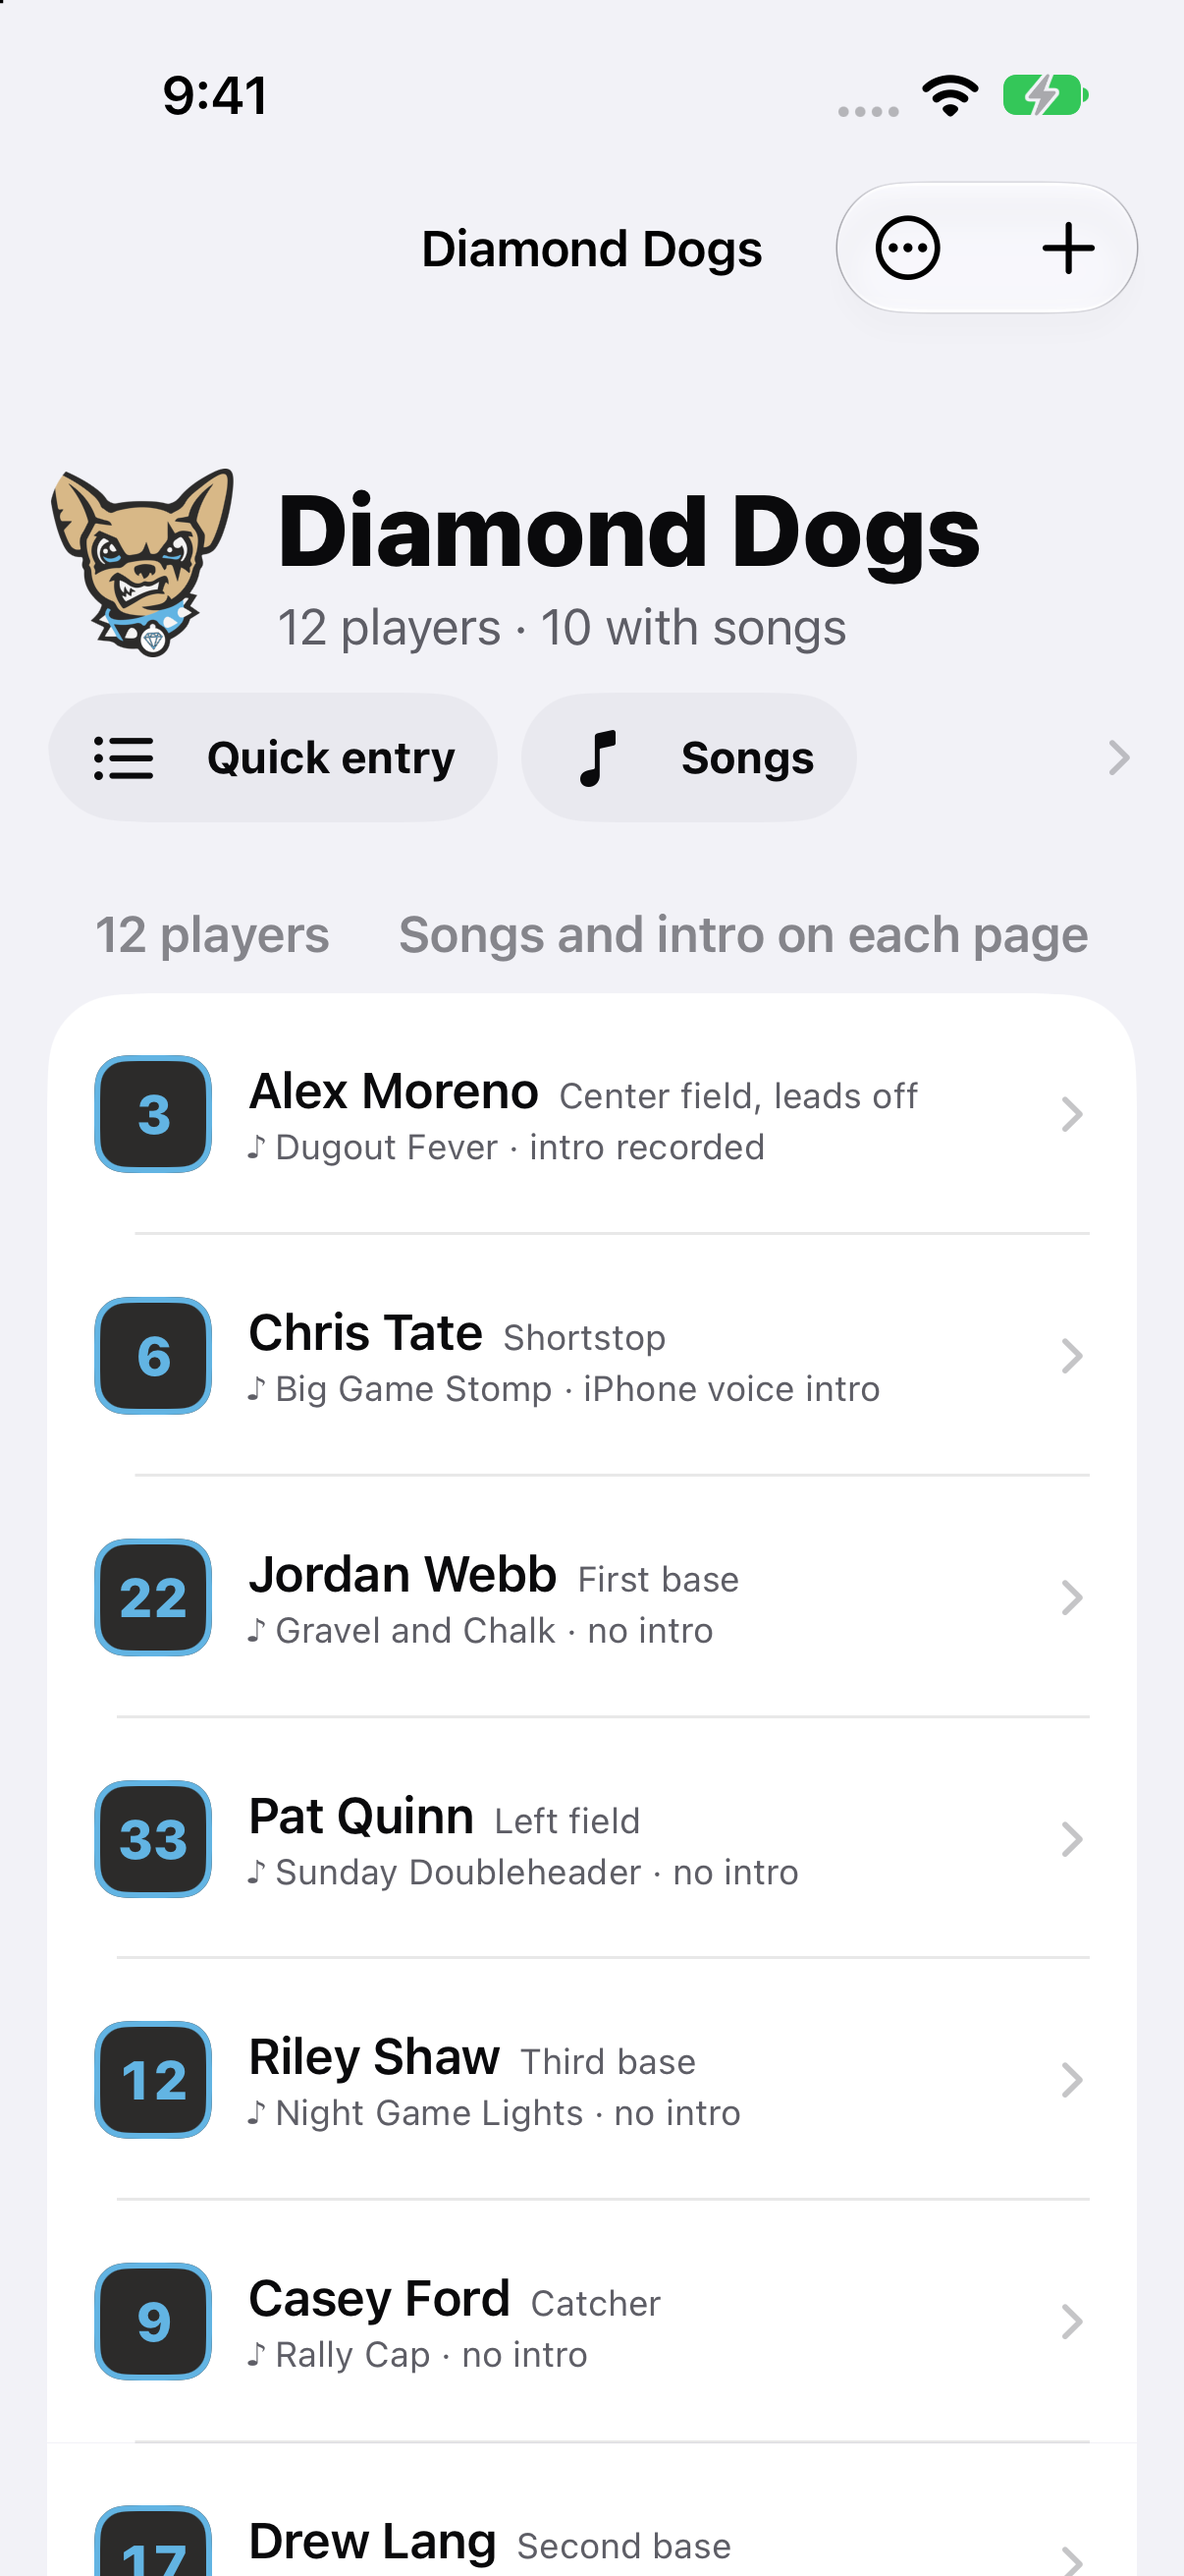
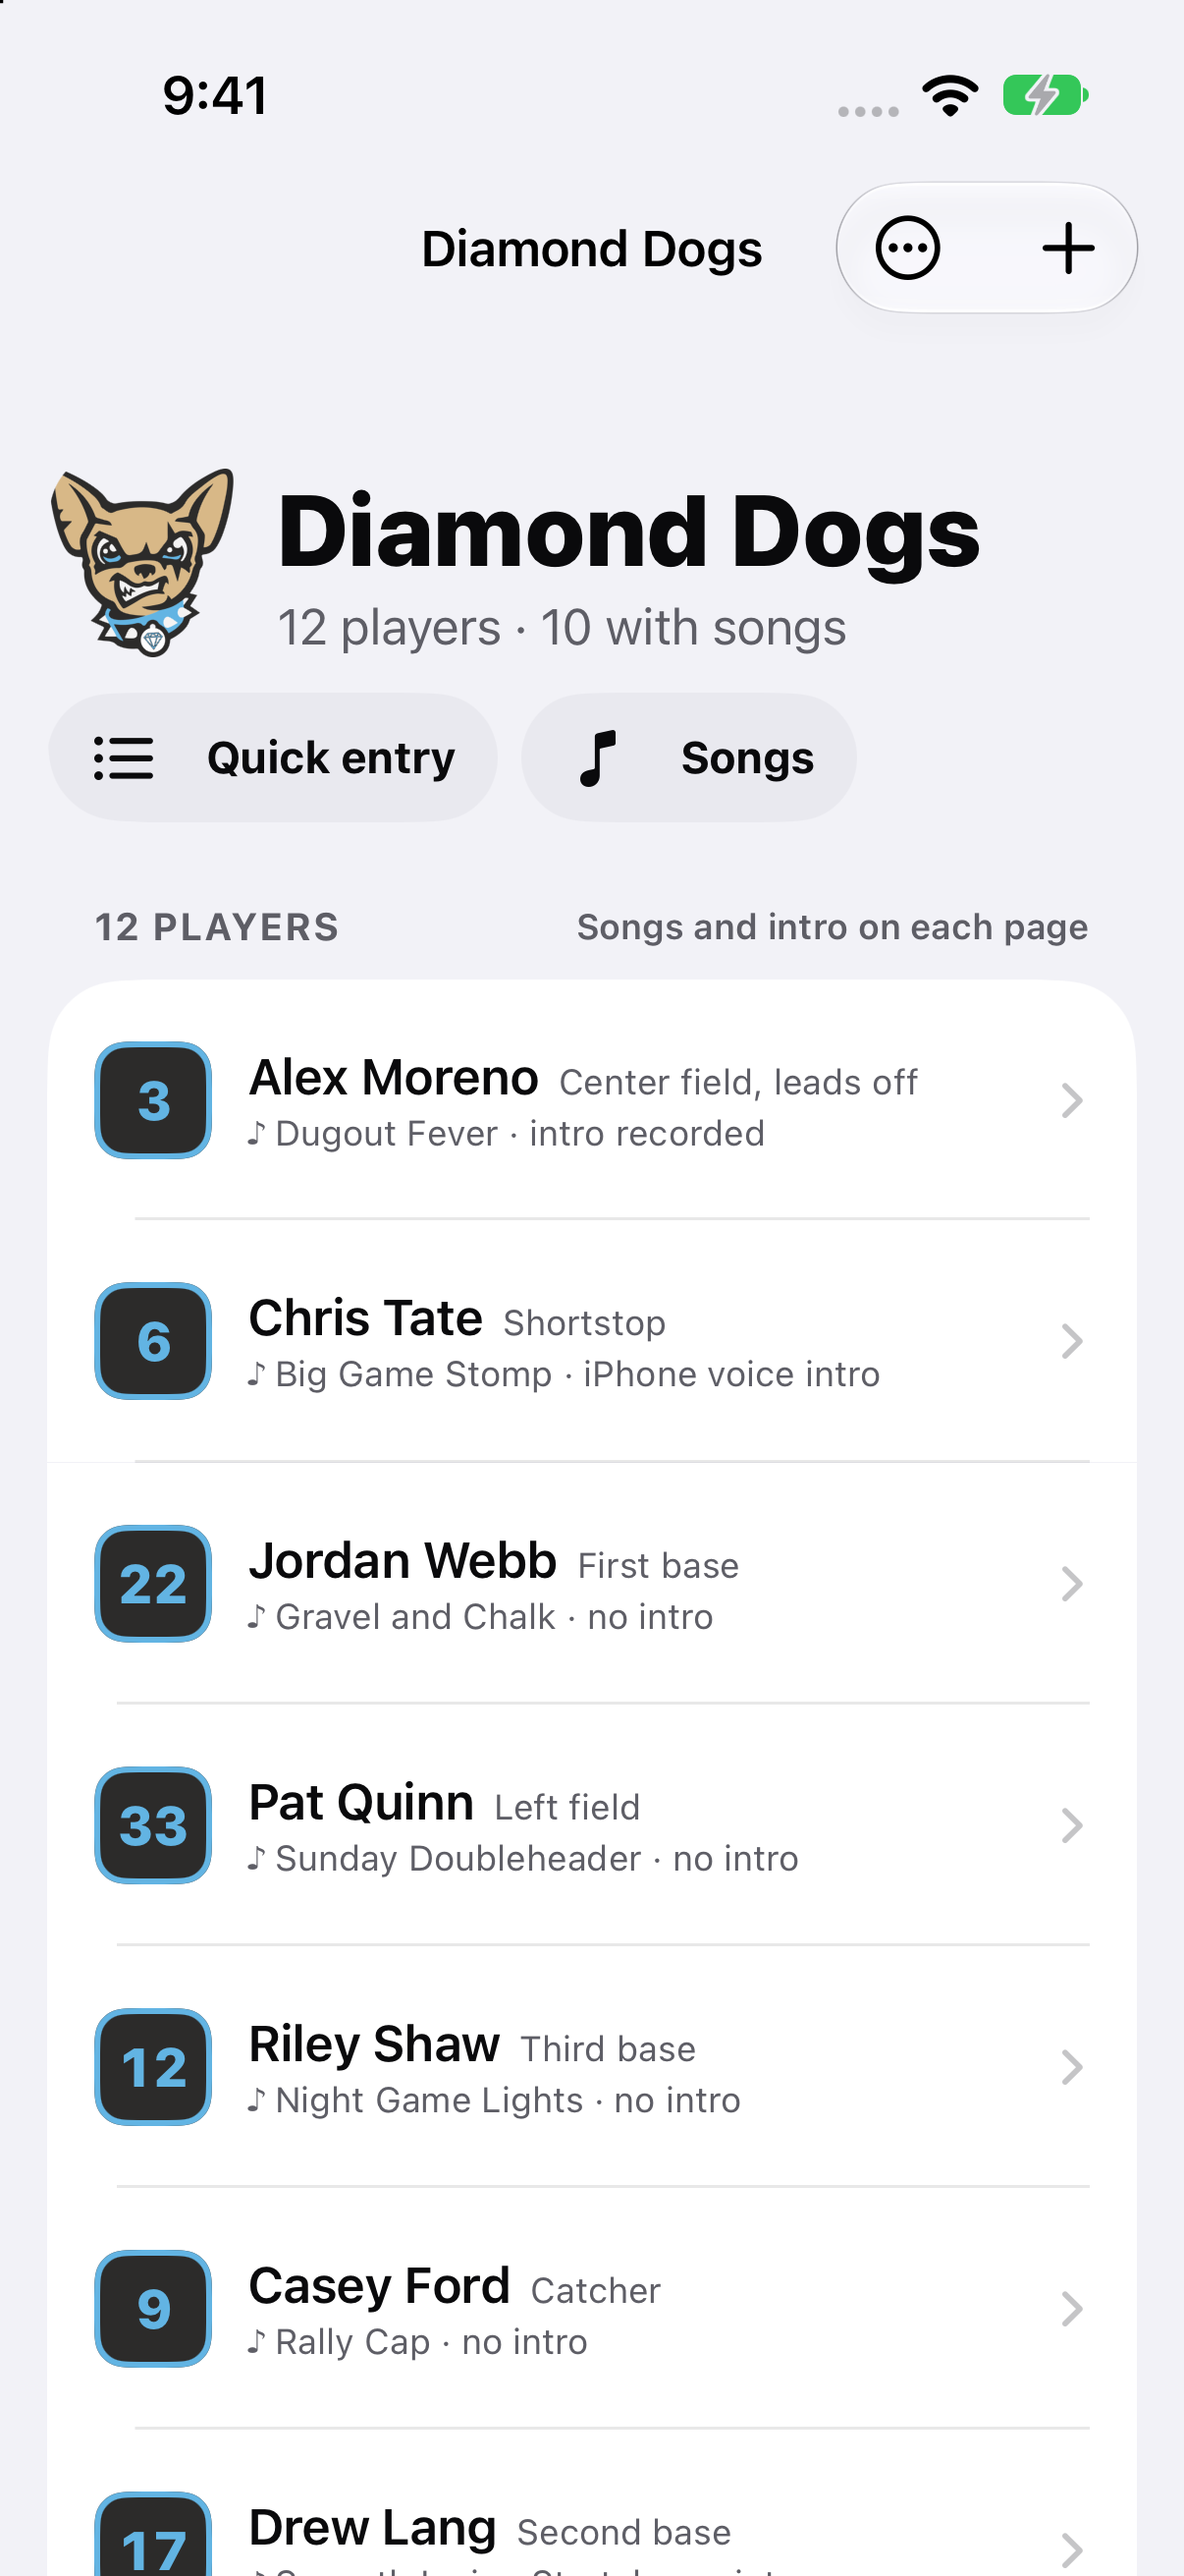
Automatic recovery copy of baseball
Working copy: /Users/mikey/projects/.worktrees/baseball/screen-teams-and-songs

diff --git a/app/Packages/ScorebookUI/Sources/TeamScreens/RosterScreen.swift b/app/Packages/ScorebookUI/Sources/TeamScreens/RosterScreen.swift
@@ -20,6 +20,7 @@ public struct RosterScreen: View {
     /// The player waiting for "Remove" to be confirmed.
     @State private var removing: Player?
     @State private var showsRename = false
+    @State private var showsSongs = false
     @State private var renameText = ""
 
     public init(teamID: TeamID, data: TeamScreensData, onRequest: @escaping (TeamScreensRequest) -> Void) {
@@ -63,10 +64,14 @@ public struct RosterScreen: View {
                     }
                 } header: {
                     HStack {
-                        Text(TeamWording.playerCount(team.roster.count))
+                        ListHeader(TeamWording.playerCount(team.roster.count))
                         Spacer()
                         Text(team.isOurs ? "Songs and intro on each page" : "Tap a player to edit")
-                            .textCase(nil)
+                            .font(ScorebookFont.caption.weight(.semibold))
+                            .foregroundStyle(ScorebookColor.textSecondary)
+                            .lineLimit(1)
+                            .minimumScaleFactor(0.7)
+                            .dynamicTypeSize(...DynamicTypeSize.xxxLarge)
                     }
                 }
             }
@@ -94,6 +99,9 @@ public struct RosterScreen: View {
                 }
                 .accessibilityLabel("Add a player")
             }
+        }
+        .navigationDestination(isPresented: $showsSongs) {
+            SongLibraryScreen(data: data, onRequest: onRequest)
         }
         .sheet(item: $editing) { draft in
             PlayerEditSheet(draft: draft, team: team, onRequest: onRequest)
@@ -128,7 +136,7 @@ public struct RosterScreen: View {
     /// The logo or letter, the team name and its summary, and the chips.
     private func header(_ team: Team) -> some View {
         VStack(alignment: .leading, spacing: Spacing.medium) {
-            HStack(spacing: Spacing.large - 2) {
+            AdaptiveStack(spacing: Spacing.large - 2) {
                 TeamBadge(team: team, size: 64)
                 VStack(alignment: .leading, spacing: 2) {
                     Text(team.name)
@@ -146,7 +154,8 @@ public struct RosterScreen: View {
                 }
                 .buttonStyle(.plain)
                 if team.isOurs {
-                    NavigationLink(value: TeamScreensRoute.songs) {
+                    // A plain button rather than a link, so the rest of the header row is not a link.
+                    Button { showsSongs = true } label: {
                         ChipLabel(title: "Songs", systemImage: "music.note")
                     }
                     .buttonStyle(.plain)

diff --git a/app/Packages/ScorebookUI/Sources/TeamScreens/SongPage.swift b/app/Packages/ScorebookUI/Sources/TeamScreens/SongPage.swift
@@ -43,7 +43,7 @@ public struct SongPage: View {
         let isPlaying = data.audio.isPlayingSong(song.id)
         return ScrollView {
             VStack(alignment: .leading, spacing: 0) {
-                HStack(spacing: Spacing.medium) {
+                AdaptiveStack(spacing: Spacing.medium) {
                     SongArt(size: 64)
                     VStack(alignment: .leading, spacing: 2) {
                         Text(song.title).font(ScorebookFont.title).foregroundStyle(ScorebookColor.textPrimary)
@@ -56,13 +56,14 @@ public struct SongPage: View {
                 ProblemsBox(problems: data.audio.problems) { onRequest(.dismissProblems) }
                     .padding(.top, Spacing.small)
 
-                SectionLabel("Start point", trailing: nil)
-                    .overlay(alignment: .bottomTrailing) {
-                        Text(TeamWording.clockTenths(start))
-                            .font(ScorebookFont.scoreboardSmall)
-                            .foregroundStyle(ScorebookColor.textPrimary)
-                            .padding(.bottom, Spacing.extraSmall)
-                    }
+                HStack(alignment: .lastTextBaseline) {
+                    SectionLabel("Start point")
+                    Spacer(minLength: Spacing.small)
+                    Text(TeamWording.clockTenths(start))
+                        .font(ScorebookFont.scoreboardSmall)
+                        .foregroundStyle(ScorebookColor.textPrimary)
+                        .padding(.bottom, Spacing.small)
+                }
                 TrackDrawing(song: song, start: start, playhead: isPlaying ? data.audio.position : nil) { seconds, finished in
                     let clamped = TeamWording.clampedStart(seconds, in: song)
                     if finished {
@@ -84,7 +85,7 @@ public struct SongPage: View {
             .padding(.bottom, Spacing.huge)
         }
         .teamPageBackground()
-        .navigationTitle(song.title)
+        .navigationTitle("")
         .navigationBarTitleDisplayMode(.inline)
         .toolbar {
             ToolbarItem(placement: .primaryAction) {
@@ -115,6 +116,8 @@ public struct SongPage: View {
                     onRequest(.setStartPoint(TeamWording.clampedStart(start + step, in: song), for: song.id))
                 }
                 .buttonStyle(WideButtonStyle(kind: .quiet, compact: true))
+                .lineLimit(1)
+                .dynamicTypeSize(...DynamicTypeSize.xxxLarge)
                 .accessibilityLabel(step < 0 ? "Start \(abs(step).formatted()) seconds earlier" : "Start \(step.formatted()) seconds later")
             }
         }

diff --git a/app/Packages/ScorebookUI/Sources/TeamScreens/Parts.swift b/app/Packages/ScorebookUI/Sources/TeamScreens/Parts.swift
@@ -53,6 +53,22 @@ struct SectionLabel: View {
     }
 }
 
+/// A list section's header in small capitals, like the mockup's `.sec`: "OUR TEAM".
+struct ListHeader: View {
+    var title: String
+
+    init(_ title: String) { self.title = title }
+
+    var body: some View {
+        Text(title.uppercased())
+            .font(ScorebookFont.sectionLabel)
+            .tracking(0.6)
+            .foregroundStyle(ScorebookColor.textSecondary)
+            .lineLimit(1)
+            .dynamicTypeSize(...DynamicTypeSize.xxxLarge)
+    }
+}
+
 /// A gray box of plain information, like the mockup's `.info`.
 struct InfoBox: View {
     var text: String
@@ -161,6 +177,9 @@ struct ChipLabel: View {
             .padding(.horizontal, Spacing.large - 2)
             .frame(minHeight: Spacing.minimumTapSize)
             .background(ScorebookColor.surfaceSecondary, in: Capsule())
+            .lineLimit(1)
+            // Chips sit side by side, so their words stop growing at the largest ordinary size.
+            .dynamicTypeSize(...DynamicTypeSize.xxxLarge)
     }
 }
 
@@ -182,6 +201,25 @@ struct SongPlayButton: View {
         }
         .buttonStyle(.borderless)
         .accessibilityLabel(isPlaying ? "Stop" : "Play")
+    }
+}
+
+// MARK: - Largest text sizes
+
+/// A row that turns into a column at the accessibility text sizes, so two buttons or a picture
+/// and its words never squeeze each other into one letter per line.
+struct AdaptiveStack<Content: View>: View {
+    var spacing: CGFloat = Spacing.small
+    @ViewBuilder var content: Content
+
+    @Environment(\.dynamicTypeSize) private var typeSize
+
+    var body: some View {
+        if typeSize.isAccessibilitySize {
+            VStack(alignment: .leading, spacing: spacing) { content }
+        } else {
+            HStack(spacing: spacing) { content }
+        }
     }
 }
 
@@ -210,9 +248,12 @@ struct SongLine: View {
     var title: String
     var details: String
 
+    @Environment(\.dynamicTypeSize) private var typeSize
+
     var body: some View {
         HStack(spacing: Spacing.medium) {
-            SongArt()
+            // At the accessibility text sizes the words need the whole width.
+            if !typeSize.isAccessibilitySize { SongArt() }
             VStack(alignment: .leading, spacing: 2) {
                 Text(title).font(ScorebookFont.headline).foregroundStyle(ScorebookColor.textPrimary)
                 Text(details).font(ScorebookFont.caption).foregroundStyle(ScorebookColor.textSecondary)

diff --git a/app/Packages/ScorebookUI/Sources/TeamScreens/PlayerPage.swift b/app/Packages/ScorebookUI/Sources/TeamScreens/PlayerPage.swift
@@ -58,7 +58,7 @@ public struct PlayerPage: View {
             .padding(.bottom, Spacing.huge)
         }
         .teamPageBackground()
-        .navigationTitle(player.displayName)
+        .navigationTitle("")
         .navigationBarTitleDisplayMode(.inline)
         .toolbar {
             ToolbarItem(placement: .primaryAction) {
@@ -99,7 +99,7 @@ public struct PlayerPage: View {
 
     /// The big number badge, the name, and "Shortstop · Bats R · Throws R".
     private func header(_ player: Player) -> some View {
-        HStack(spacing: Spacing.large - 2) {
+        AdaptiveStack(spacing: Spacing.large - 2) {
             NumberBadge(player: player, look: .ours, size: 72)
             VStack(alignment: .leading, spacing: 2) {
                 Text(player.displayName)
@@ -127,7 +127,7 @@ public struct PlayerPage: View {
                 } else {
                     SongLine(title: "No song yet", details: "Pick one from the library")
                 }
-                HStack(spacing: Spacing.small) {
+                AdaptiveStack {
                     Button {
                         if isPlaying {
                             onRequest(.stopPlaying)
@@ -179,7 +179,7 @@ public struct PlayerPage: View {
                           systemImage: "mic.fill")
                 }
                 .buttonStyle(WideButtonStyle(kind: .record))
-                HStack(spacing: Spacing.small) {
+                AdaptiveStack {
                     Button {
                         onRequest(isListening ? .stopPlaying : .playIntroduction(player))
                     } label: {

diff --git a/app/Packages/ScorebookUI/Sources/TeamScreens/SongLibraryScreen.swift b/app/Packages/ScorebookUI/Sources/TeamScreens/SongLibraryScreen.swift
@@ -64,7 +64,7 @@ public struct SongLibraryScreen: View {
                             .listRowBackground(ScorebookColor.surface)
                     }
                 } header: {
-                    Text(songs.count == 1 ? "1 song" : "\(songs.count) songs")
+                    ListHeader(songs.count == 1 ? "1 song" : "\(songs.count) songs")
                 }
             }
         }
@@ -74,7 +74,10 @@ public struct SongLibraryScreen: View {
         .toolbar {
             ToolbarItem(placement: .primaryAction) {
                 Button { showsImporter = true } label: {
-                    Label("Import", systemImage: "folder").labelStyle(.titleAndIcon)
+                    HStack(spacing: Spacing.extraSmall) {
+                        Image(systemName: "folder")
+                        Text("Import")
+                    }
                 }
                 .fontWeight(.bold)
                 .disabled(data.audio.isImporting)

diff --git a/app/Packages/ScorebookUI/Sources/TeamScreens/TeamsListScreen.swift b/app/Packages/ScorebookUI/Sources/TeamScreens/TeamsListScreen.swift
@@ -43,7 +43,7 @@ public struct TeamsListScreen: View {
                     }
                 }
             } header: {
-                Text("Our team")
+                ListHeader("Our team")
             }
 
             Section {
@@ -56,7 +56,7 @@ public struct TeamsListScreen: View {
                     ForEach(opponents) { teamRow($0) }
                 }
             } header: {
-                Text("Opponents")
+                ListHeader("Opponents")
             }
 
             Section {

diff --git a/app/Packages/ScorebookUI/Sources/TeamScreens/RecordIntroductionSheet.swift b/app/Packages/ScorebookUI/Sources/TeamScreens/RecordIntroductionSheet.swift
@@ -133,7 +133,7 @@ struct RecordIntroductionSheet: View {
     /// Listen to the new recording, or throw it away and record again.
     private func listenAndRedo(_ pending: AnnouncerIntroduction) -> some View {
         let isListening = data.audio.playback.phase == .introduction
-        return HStack(spacing: Spacing.small) {
+        return AdaptiveStack {
             Button {
                 if isListening {
                     onRequest(.stopPlaying)
